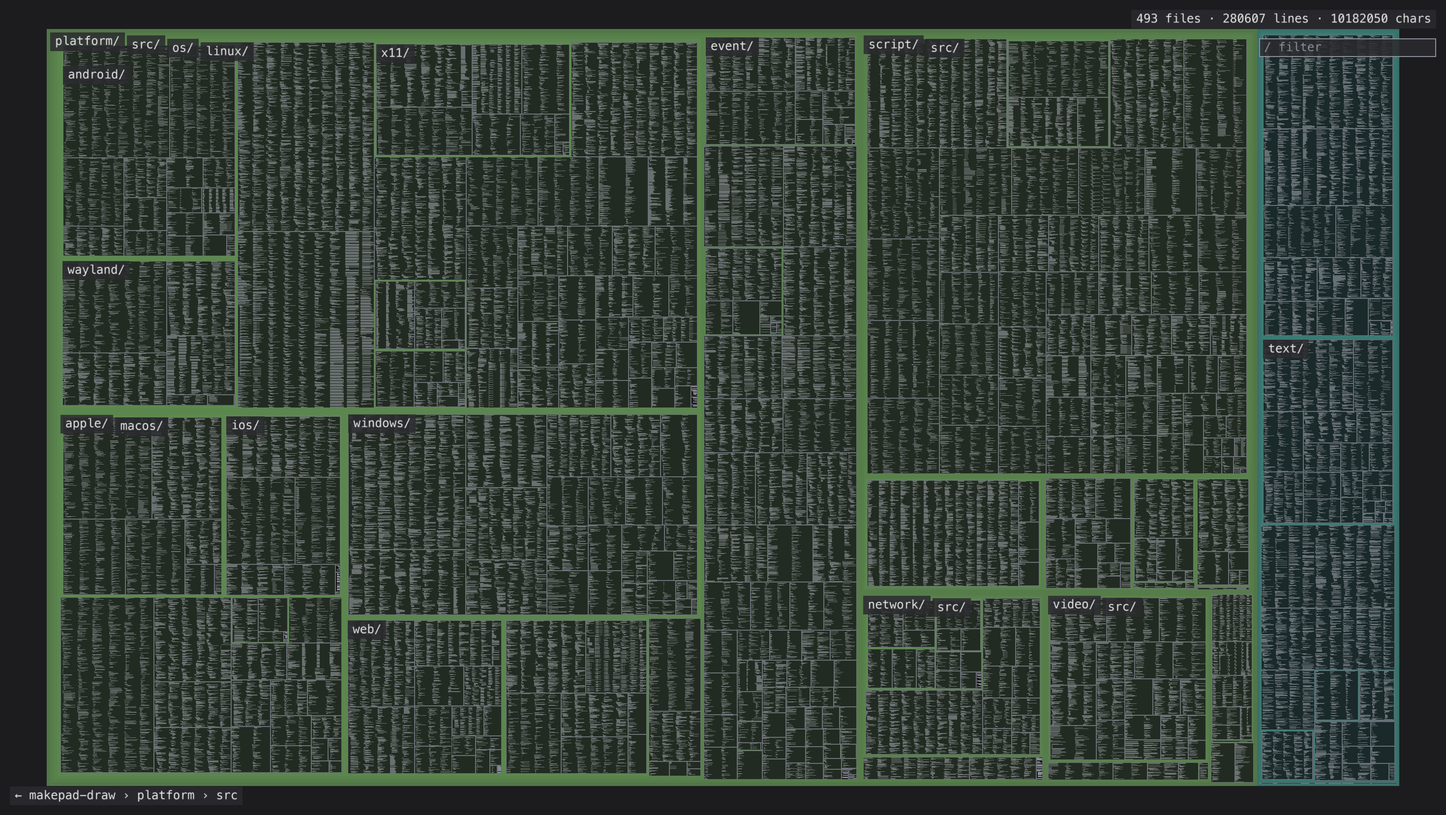
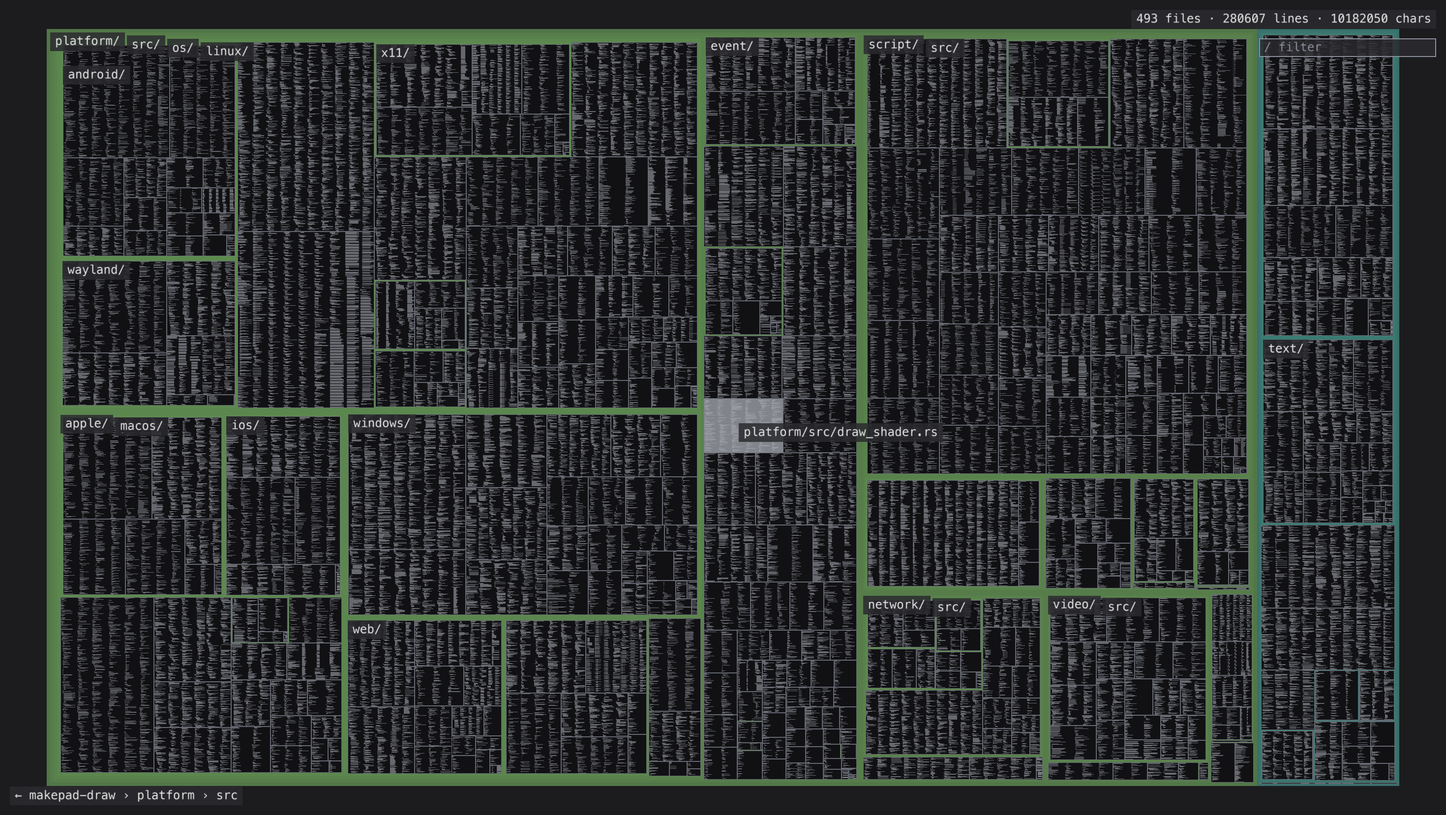
One file background at every rung, bar brightness ramped across the 1 px cut
The rung 0 tile carried 15 percent of the directory hue and its bars were dimmer than rung 1's, so at a zoomed-out view files on either side of one pixel per line flipped between dark green with grey texture and black with white texture, and the cut swept across the map as a colour change while zooming. Every rung now draws the plain file background, the hue lives only in the directory bands, and the bar alpha ramps with pixels per line, so only the sampling changes at the cut.

diff --git a/docs/DESIGN.md b/docs/DESIGN.md
@@ -189,7 +189,7 @@ In numpy over files: `ppl = file_pitch * zoom` (device pixels per line); `rung =
 
 | rung | ppl | what is drawn |
 |---|---|---|
-| 0 sampled bars | under 1 | the file background with a trace of the hue, and every step-th line (file-relative index `j` with `j mod step == 0`) as a grey bar exactly 1 device pixel tall from indent to len, so the density stays about one bar per pixel row: the circuit-board texture of the whole map |
+| 0 sampled bars | under 1 | the file background, and every step-th line (file-relative index `j` with `j mod step == 0`) as a grey bar exactly 1 device pixel tall from indent to len, so the density stays about one bar per pixel row: the circuit-board texture of the whole map |
 | 1 line bars | 1 to 3 | one grey bar per line from indent to len |
 | 2 tokens | 3 to 6 | one block per character in the kind colour, item outlines |
 | 3 text | 6 and up | glyphs from the atlas in the kind colour, item outlines | Compute the hovered file from the cursor (point in file rect; use a coarse uniform grid over the world built at start to keep this O(1)), and the hovered line and column from the file's layout (column c from x, row r from y, line j = c * rows + r, col from x within the column divided by p * A). Compute the crumb trail: the deepest directory whose rectangle contains the view centre and is at least 64 device pixels on its shorter side.
@@ -197,8 +197,8 @@ In numpy over files: `ppl = file_pitch * zoom` (device pixels per line); `rung =
 ### Draw order and shaders
 
 1. Directories: for every directory with depth ≥ 1 whose rectangle is visible, draw the outer rectangle filled with the hue at 55 percent alpha over the darker inner fill, so the padding ring reads as a coloured band; below 1 device pixel of padding, still draw a 1 pixel line in the hue. Use an instanced rectangle shader with the ring computed in the fragment shader from the world-space padding, with `fwidth` to guarantee the 1 pixel minimum.
-2. Files: instanced over all files, vertex shader culls invisible ones (degenerate quad). Fill: rung 0 draws the tile darkened to the file background, `#111114` with 15 percent of the hue, so the sampled bars drawn over it read; rungs 1 to 3 draw the file background `#111114`. Border: 1 device pixel in a light grey (`#8a8f9a` at 70 percent); hovered file: fill `#dfe3ec` at 55 percent over everything (the light bar in the overview); hit file: border becomes 2 pixels of `#e8d44d`; current result: 3 pixels `#e8d44d`; dimmed: fill darkened 50 percent.
-3. Lines: one instanced draw over all lines. Vertex shader: fetch line and file texels; if the line is outside the view, or the file is at rung 0 and the line's file-relative index is not a multiple of the file's step, emit a degenerate quad. Quad from (x, y) with width `len * p * A` (clipped to `cap * p * A`) and height p, or exactly 1 device pixel at rung 0. Pass to the fragment shader: the line's byte offset, indent, len, cap, p, the rung, and the unit uv. Fragment shader: `col = floor(uv.x * len_clipped)`; rung 0: discard if col < indent, else output `#a4a8b0` at 55 percent (the sampled bar); rung 1: discard if col < indent, else output `#a4a8b0` at 80 percent (a grey bar from indent to len); rung 2: fetch the kind at byte_off + col, discard if space, output the kind colour (a block per character, which gives the token segments); rung 3: fetch the char and kind, sample the glyph atlas cell for the char at the in-cell uv, multiply the kind colour by the coverage. Kind colours (RGB): space none, ident `#cfd2d8`, keyword `#7aa2f7`, type `#e0c080`, string `#d7a0a8`, comment `#7f9f7f`, number `#f0a060`, punct `#8c909a`, macro `#7fc8c8`, call `#c8d08c`. When the file is dimmed, multiply by 0.45.
+2. Files: instanced over all files, vertex shader culls invisible ones (degenerate quad). Fill: every rung draws the file background `#111114`; the hue lives only in the directory bands, so a file's colour never flips at a rung cut. Border: 1 device pixel in a light grey (`#8a8f9a` at 70 percent); hovered file: fill `#dfe3ec` at 55 percent over everything (the light bar in the overview); hit file: border becomes 2 pixels of `#e8d44d`; current result: 3 pixels `#e8d44d`; dimmed: fill darkened 50 percent.
+3. Lines: one instanced draw over all lines. Vertex shader: fetch line and file texels; if the line is outside the view, or the file is at rung 0 and the line's file-relative index is not a multiple of the file's step, emit a degenerate quad. Quad from (x, y) with width `len * p * A` (clipped to `cap * p * A`) and height p, or exactly 1 device pixel at rung 0. Pass to the fragment shader: the line's byte offset, indent, len, cap, p, the rung, and the unit uv. Fragment shader: `col = floor(uv.x * len_clipped)`; rungs 0 and 1: discard if col < indent, else output `#a4a8b0` at an alpha that ramps with pixels per line, `clamp(0.5 + 0.15 ppl, 0.55, 0.8)`, so only the sampling changes at the 1 px cut (rung 0 the sampled bar, rung 1 a grey bar from indent to len); rung 2: fetch the kind at byte_off + col, discard if space, output the kind colour (a block per character, which gives the token segments); rung 3: fetch the char and kind, sample the glyph atlas cell for the char at the in-cell uv, multiply the kind colour by the coverage. Kind colours (RGB): space none, ident `#cfd2d8`, keyword `#7aa2f7`, type `#e0c080`, string `#d7a0a8`, comment `#7f9f7f`, number `#f0a060`, punct `#8c909a`, macro `#7fc8c8`, call `#c8d08c`. When the file is dimmed, multiply by 0.45.
 4. Item outlines: for files at rung 2 or 3 that are visible, draw their item rectangles as 1.5 device pixel outlines in the item kind colour: function `#7aa2f7` at 60 percent, struct `#e0c080`, enum `#d7a0a8`, impl `#5fb7b7`, other `#8c909a`. Nested outlines are fine. Build the instance list on the CPU from the visible files each frame (numpy boolean index over item_rect_item's file).
 5. Hits: while a filter is active, every hit in a visible file at rung ≥ 2 draws a 2 pixel `#e8d44d` outline around its token rectangle (from the hit's column and length); the current result draws a filled `#e8d44d` at 25 percent as well.
 6. Directory labels: for visible directories with depth ≥ 1 whose shorter side is at least 48 device pixels, draw the label as a tag at the rectangle's top left, inset by the padding: 13 point text (26 device pixels on Retina) in `#e6e6e6` on a `#2a2a2e` box at 85 percent alpha. Labels never scale with zoom. Skip a label if it would cover more than 40 percent of its rectangle's width. Label chains: when a directory's inner rectangle is filled by exactly one child directory (the child covers at least 85 percent of it), the parent draws no tag and the innermost directory of the chain draws one tag joining the chain's names with ` · ` (`platform · src · os`, as the video's `git · tests`) at its own corner; the crumb trail is unaffected.
